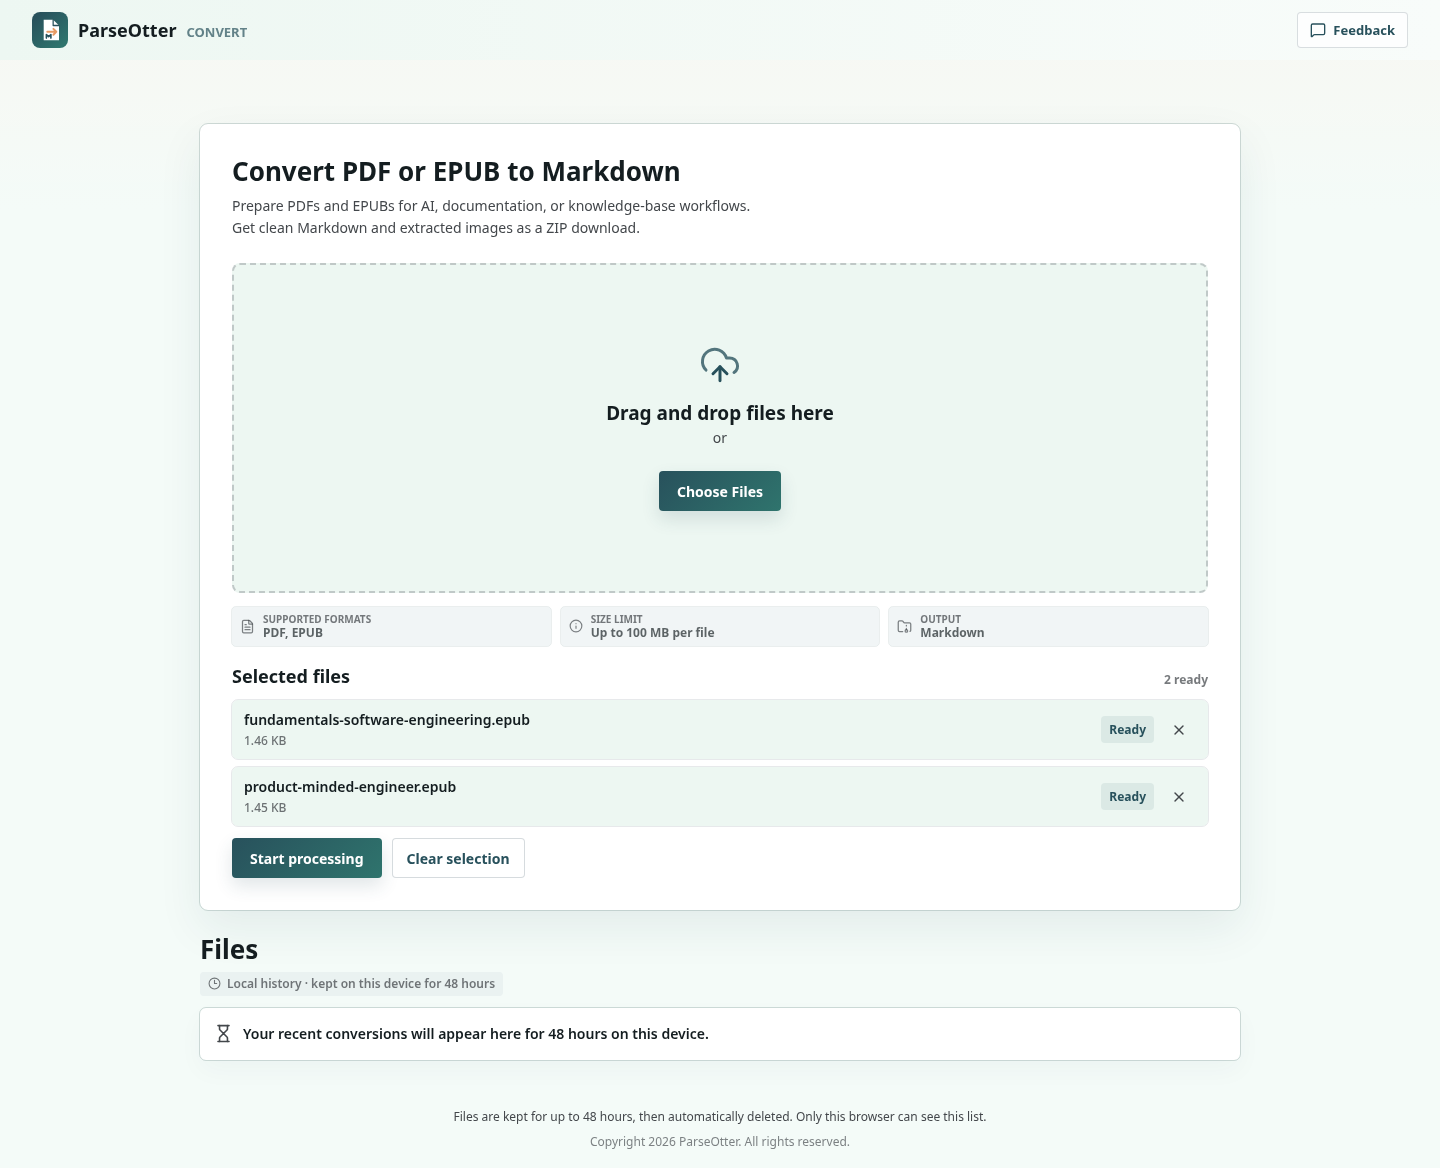
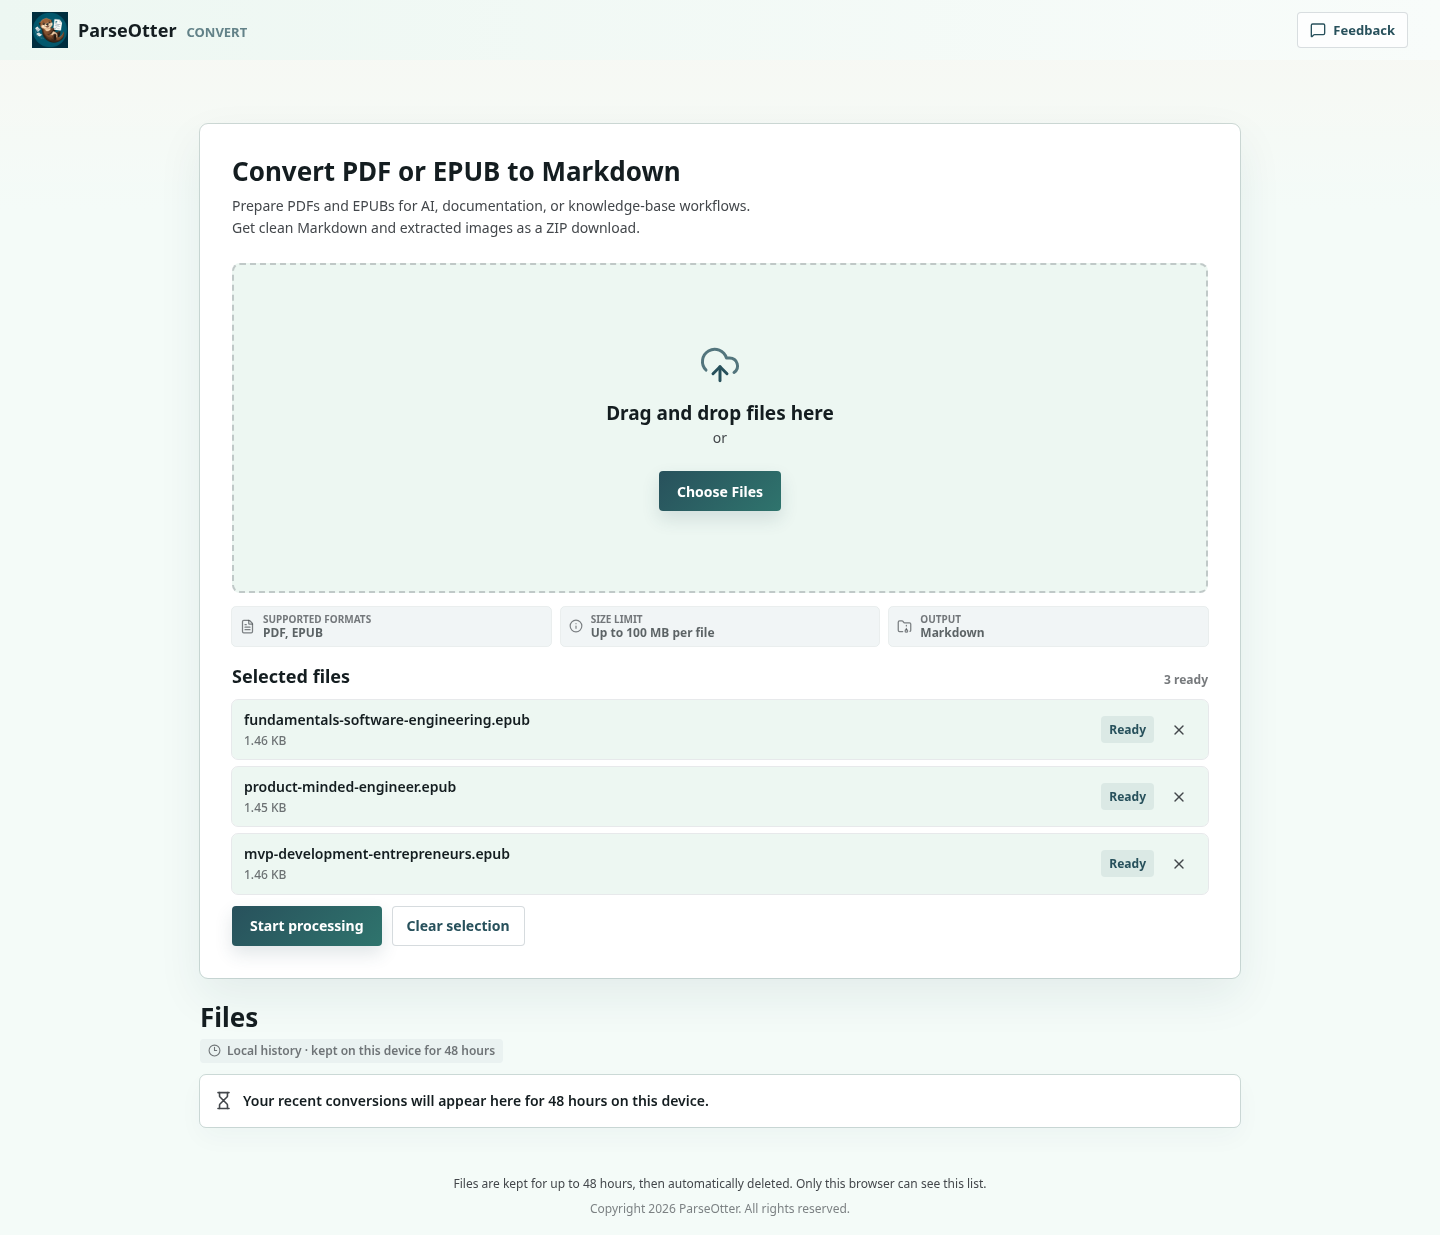
Refresh branding assets and screenshots

diff --git a/frontend/src/App.tsx b/frontend/src/App.tsx
@@ -14,19 +14,7 @@ import './styles/App.css'
 function ProductMark() {
   return (
     <span className="brand-icon" aria-hidden="true">
-      <svg viewBox="0 0 40 40" focusable="false">
-        <defs>
-          <linearGradient id="brandIconGradient" x1="6" y1="4" x2="34" y2="36" gradientUnits="userSpaceOnUse">
-            <stop stopColor="#28515c" />
-            <stop offset="1" stopColor="#2f746d" />
-          </linearGradient>
-        </defs>
-        <rect className="brand-icon-background" width="40" height="40" rx="9" />
-        <path className="brand-icon-page" d="M13 8.5h10.5L30 15v16.5H13z" />
-        <path className="brand-icon-fold" d="M23.5 8.5V15H30" />
-        <path className="brand-icon-arrow" d="M17 22h10m-3.2-3.2L27 22l-3.2 3.2" />
-        <path className="brand-icon-markdown" d="M16 29v-4l2.5 2.4L21 25v4" />
-      </svg>
+      <img src="/icon-192.png" alt="" />
     </span>
   )
 }

diff --git a/frontend/src/styles/App.css b/frontend/src/styles/App.css
@@ -22,40 +22,11 @@
   height: 36px;
 }
 
-.brand-icon svg {
+.brand-icon img {
   display: block;
   width: 100%;
   height: 100%;
-}
-
-.brand-icon-background {
-  fill: url("#brandIconGradient");
-}
-
-.brand-icon-page {
-  fill: #ffffff;
-}
-
-.brand-icon-fold,
-.brand-icon-arrow,
-.brand-icon-markdown {
-  fill: none;
-  stroke: var(--primary);
-  stroke-linecap: round;
-  stroke-linejoin: round;
-}
-
-.brand-icon-fold {
-  stroke-width: 1.4;
-}
-
-.brand-icon-arrow {
-  stroke-width: 2.2;
-  stroke: var(--accent);
-}
-
-.brand-icon-markdown {
-  stroke-width: 1.8;
+  object-fit: cover;
 }
 
 .brand-copy {

diff --git a/frontend/index.html b/frontend/index.html
@@ -2,7 +2,9 @@
 <html lang="en">
   <head>
     <meta charset="UTF-8" />
-    <link rel="icon" type="image/svg+xml" href="/icon.svg" />
+    <link rel="icon" type="image/png" sizes="32x32" href="/favicon-32x32.png" />
+    <link rel="icon" type="image/png" sizes="192x192" href="/icon-192.png" />
+    <link rel="apple-touch-icon" href="/apple-touch-icon.png" />
     <meta name="viewport" content="width=device-width, initial-scale=1.0" />
     <title>ParseOtter Convert</title>
   </head>

diff --git a/frontend/tests/parseotter-api.spec.ts b/frontend/tests/parseotter-api.spec.ts
@@ -2,7 +2,7 @@ import { afterEach, describe, expect, it, vi } from 'vitest'
 
 import { createParseOtterApiClient } from '../src/parseotter-api'
 
-describe('simple convert api client', () => {
+describe('ParseOtter API client', () => {
   afterEach(() => {
     vi.unstubAllGlobals()
   })

diff --git a/api-worker/tests/app/abuse-limiting.spec.ts b/api-worker/tests/app/abuse-limiting.spec.ts
@@ -52,7 +52,7 @@ function createTaskRequest(fileName: string): RequestInit {
   }
 }
 
-describe('simple convert abuse limiting', () => {
+describe('ParseOtter abuse limiting', () => {
   beforeEach(async () => {
     await resetTaskDatabase(env.DB)
   })
